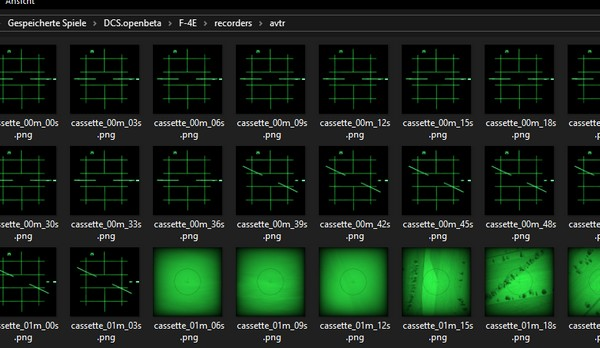
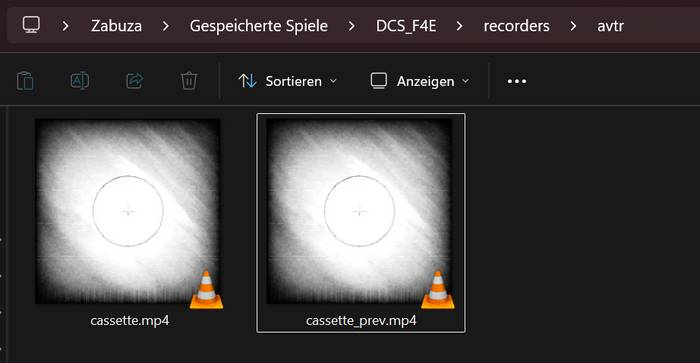
AVTR mp4 video recording

diff --git a/src/dcs/recorders.md b/src/dcs/recorders.md
@@ -15,14 +15,13 @@ The AVTR records footage into folder
 
 `C:\Users\John Doe\Saved Games\DCS_F4E\recorders\avtr\`
 
-as PNG files every three seconds, if activated. Each cassette can record up to 20 minutes of footage
-and, if unthreaded, will overwrite previously recorded footage.
+as an `mp4` video file. The folder holds up to two recordings, `cassette.mp4`
+and `cassette_prev.mp4`. Any subsequent footage will then overwrite the
+existing.
 
 ![AVTR Folder](../img/avtr_folder.jpg)
 
-> 💡 This limits the footage to 400 files, each having a size between 50 KB (radar) to 400 KB (TV),
-> totalling to 160 MB.
-
-See [2.1.10.3 AVTR System](../cockpit/pilot/right_console/aft_section.md#airborne-video-tape-recorder)
-and [2.2.2 AVTR Control](../cockpit/wso/left_sub_panel.md#avtr-control)
-for details on how to operate the device.
+See
+[2.1.10.3 AVTR System](../cockpit/pilot/right_console/aft_section.md#airborne-video-tape-recorder)
+and [2.2.2 AVTR Control](../cockpit/wso/left_sub_panel.md#avtr-control) for
+details on how to operate the device.